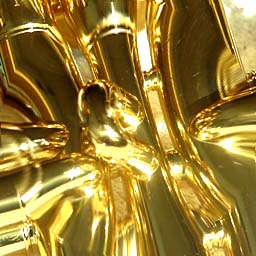
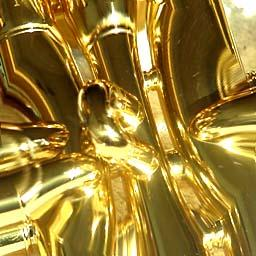
1. Recompressed some images for greater compression 2. Added ShaderErrorListener to phong shading test program

diff --git a/trunk/src/classes/org/jdesktop/j3d/examples/glsl_shader/PhongShadingGLSL.java b/trunk/src/classes/org/jdesktop/j3d/examples/glsl_shader/PhongShadingGLSL.java
@@ -48,6 +48,7 @@ import com.sun.j3d.utils.geometry.Sphere;
 import com.sun.j3d.utils.shader.StringIO;
 import com.sun.j3d.utils.universe.*;
 import javax.media.j3d.*;
+import javax.swing.JOptionPane;
 import javax.vecmath.*;
 import java.awt.GraphicsConfiguration;
 import java.io.IOException;
@@ -67,7 +68,7 @@ public class PhongShadingGLSL extends javax.swing.JFrame {
     // Flag indicates type of lights: directional, point, or spot lights.
     private static int lightType = DIRECTIONAL_LIGHT;
 
-    private SimpleUniverse u = null;
+    private SimpleUniverse univ = null;
 
     private ShaderAppearance sApp = null;
     private ShaderProgram gouraudSP = null;
@@ -290,6 +291,17 @@ public class PhongShadingGLSL extends javax.swing.JFrame {
         rotator2.setSchedulingBounds(bounds);
         l2RotTrans.addChild(rotator2);
 
+        // Setup ShaderErrorListener
+        univ.addShaderErrorListener(new ShaderErrorListener() {
+            public void errorOccurred(ShaderError error) {
+                error.printVerbose();
+                JOptionPane.showMessageDialog(PhongShadingGLSL.this,
+                              error.toString(),
+                              "ShaderError",
+                              JOptionPane.ERROR_MESSAGE);
+            }
+        });
+
         return objRoot;
     }
 
@@ -299,14 +311,14 @@ public class PhongShadingGLSL extends javax.swing.JFrame {
 
         Canvas3D c = new Canvas3D(config);
 
-        u = new SimpleUniverse(c);
+        univ = new SimpleUniverse(c);
 
         // This will move the ViewPlatform back a bit so the
         // objects in the scene can be viewed.
-        u.getViewingPlatform().setNominalViewingTransform();
+        univ.getViewingPlatform().setNominalViewingTransform();
 
         BranchGroup scene = createSceneGraph();
-        u.addBranchGraph(scene);
+        univ.addBranchGraph(scene);
 
         return c;
     }
@@ -322,6 +334,7 @@ public class PhongShadingGLSL extends javax.swing.JFrame {
         Canvas3D c = initScene();
         drawingPanel.add(c, java.awt.BorderLayout.CENTER);
     }
+
 
     // ----------------------------------------------------------------
     
